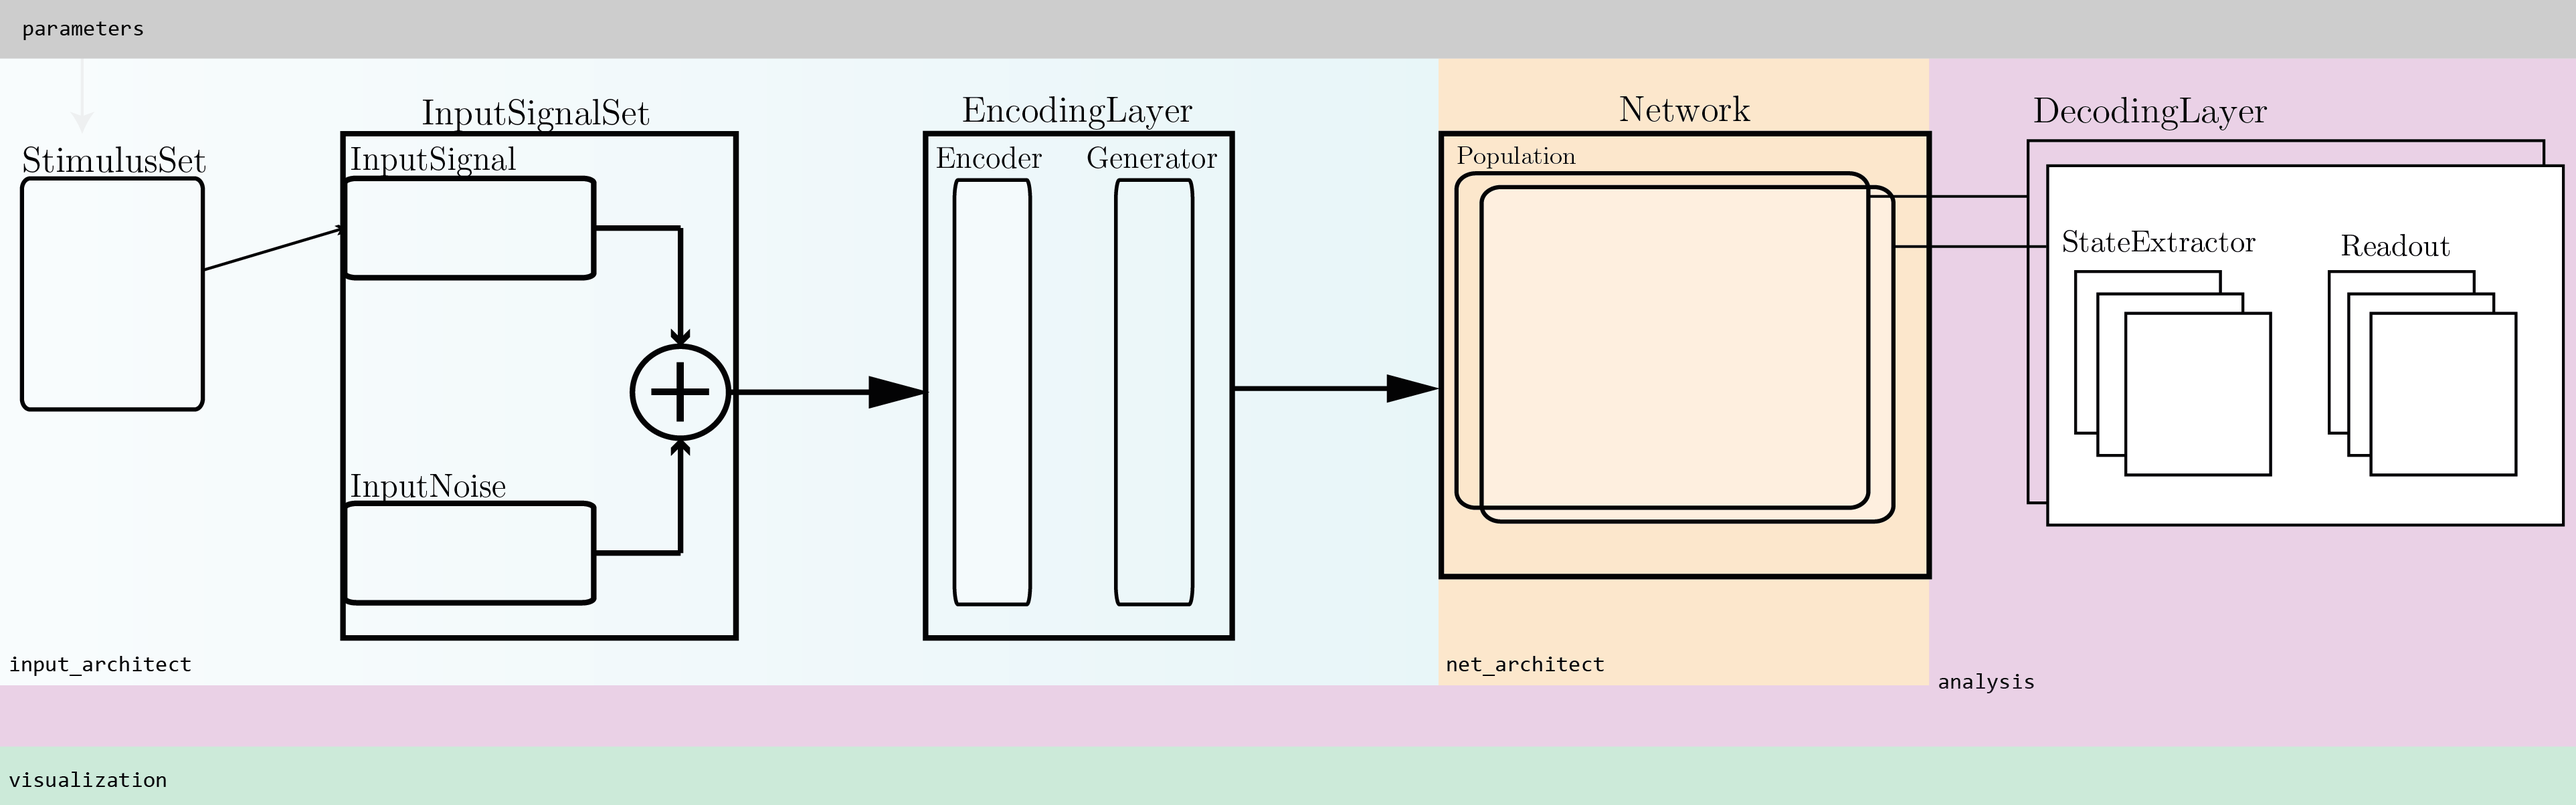
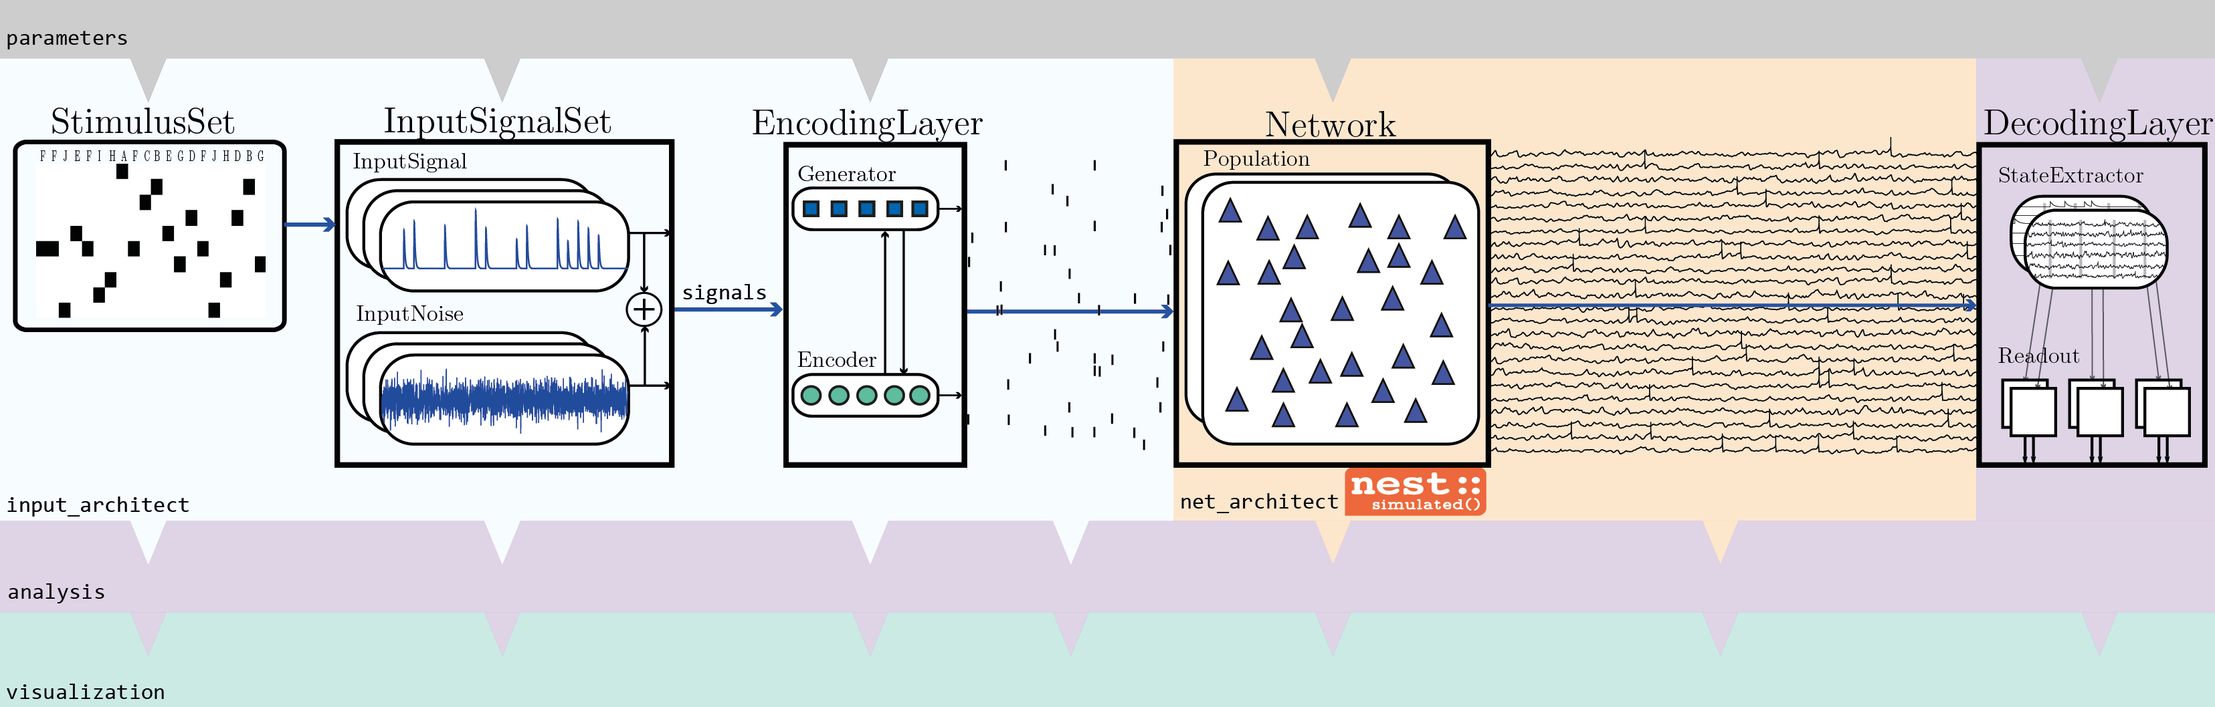
Extended description

diff --git a/docs/docs/framework-description.md b/docs/docs/framework-description.md
@@ -1,17 +1,17 @@
 ## NMSAT architecture overview:
 
-###[!!!I think it'd be nice to have a global, yet quite general overview of what components there are, what they do and the flow through the layers / components!!! I tried (& failed) to start describing it. ]
-
 ![alt-text](/images/global_illustration-01.png)
-The framework is built on a layered structure, which can be divided into three main elements (left to right):
+The framework is built on a modular structure, which can be divided into six main elements (the core modules):
   
-  * **Input Architect:** handles all generation and preprocessing of the input stimuli and signals. Being quite flexible, it is difficult to describe a single workflow of Input Architect, but a general experiment looks like this: first, a set of input stimuli is generated. Afterwards, for each stimulus a corresponding signal is created, yielding a set of input signals [maybe add what types are possible? spike_input, ] to which various types of noise [e.g., GWN or OU processes] can be added if needed. The input signal set is then passed to the encoding layer, which has two types of components: generators and encoders. Generators can be of different types (...).
-    
-    However, you can design experiments without any stimuli ... [here I just wanted to highlight the versatility.. maybe a short description of an experiment without any stimuli / noise, just background noise?]
+  * **Parameters:** complex nested dictionaries, specified as an independent file. Typically this is the most sensitive aspect of the whole framework as the structure and contents of these dictionaries determines all the specificities of the experiments. Different sub-dictionaries should be created for each type of parameters (see [parameters](/parameters))
+  
+  * **Input Architect:** handles all the generation and preprocessing of input stimuli and signals. Being quite flexible, it is difficult to describe a single workflow for Input Architect, but in the relatively complex scenario illustrated above, it would consist of a `StimulusSet` object, which wraps multiple stimulus sequences (as labelled, binary feature vectors, subdivided into train and test set, for example), an `InputSignalSet`, which contains all the input signals generated from the stimulus sequences, according to the chosen transduction strategy, as well as instances of input noise which can be added to the signal or provided as an independent input. Finally, the `EncodingLayer` consists of generators (NEST devices) and/or encoders (Population objects, typically spiking neurons). Note that, any of these components can be removed or manually specified, for example, it may be important to provide a very specific `InputSignal`, which can be loaded as a numpy array. In this alternative scenario, the `StimulusSet` would be unnecessary. Stimulus sets can also be manually generated and loaded onto the framework.
   
   * **Network Architect:** 
   
   * **Analysis:**
+
+Note that, depending on the experiment, not all of the components are necessary and it is frequently the case that only sub-sets of these modules are used in a given experiment (see [examples](/examples)), depending on the nature of the input stimuli (if any), the nature of the circuit and what is intended to be measured.
 
 ## Code structure
 
